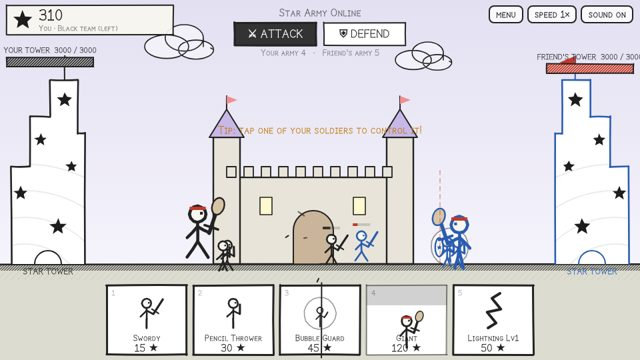
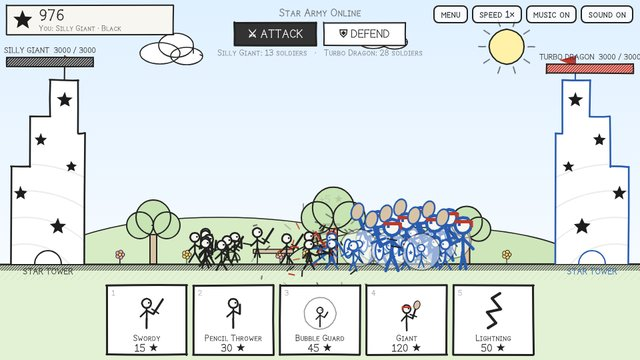
Star Army: trophies for beating the game; online win trophies; fresh lobby covers
- Animated pencil-drawn trophy on the big wins (all 30 stages, zombie level 15,
  survive till sunrise, beat the computer, 2-player VS) and a trophy shelf on
  the title screen (saved in starArmySave).
- Star Army Online: trophy when you win, wins counted on this device
  (starArmyOnlineWins) and shown on the title screen.
- Online title screen now shows an online battlefield instead of story stage 1;
  removed duplicate <title> tags.
- New thumb.jpg screenshots for both games.

Claude-Session: https://claude.ai/code/session_012zsgkV4DVUGYw2WCcTi7S9

diff --git a/star-army-online/index.html b/star-army-online/index.html
@@ -12,13 +12,6 @@
 <meta name="apple-mobile-web-app-status-bar-style" content="black-translucent">
 <meta name="apple-mobile-web-app-title" content="Star Army Online">
 <title>Star Army Online</title>
-<title>Star Army Online</title>
-<title>Star Army Online</title>
-<title>Star Army Online</title>
-<title>Star Army Online</title>
-<title>Star Army Online</title>
-<title>Star Army Online</title>
-<title>Star Army Online</title>
 <style>
[1 lines of base64/hex data omitted]
 :root{--ink:#222;--paper:#f8f6f0}
@@ -62,6 +55,10 @@ input{-webkit-user-select:text;user-select:text}
 .nameshow{font-size:26px;font-weight:bold;margin:2px 0}
 #codeIn{font:inherit;font-size:30px;font-weight:bold;letter-spacing:10px;text-transform:uppercase;width:170px;text-align:center;border:3px solid #222;border-radius:9px;padding:4px;margin:0 0 8px;background:#fff;color:#222;touch-action:manipulation}
 .bigcode{font-size:64px;font-weight:bold;letter-spacing:14px;margin:6px 0;border:3px dashed #222;border-radius:12px;padding:6px 10px;display:inline-block;background:#fff}
+.trophy,.shelfT{background:transparent!important;box-shadow:none!important}
+.trophy{width:min(220px,50vw,40vh);height:auto;display:block;margin:0 auto -6px}
+.shelf{display:flex;justify-content:center;gap:6px;flex-wrap:wrap;margin:4px 0}.shelf .slot{text-align:center;font-size:11px;font-weight:bold;width:92px}
+.shelfT{width:88px;height:auto;display:block;margin:0 auto}.shelfT.off{opacity:.25;filter:grayscale(1)}
 #rot{display:none}
 @media (orientation:portrait) and (pointer:coarse){#rot{display:block}}
 </style>
@@ -73,6 +70,7 @@ input{-webkit-user-select:text;user-select:text}
 <div id="title" class="ov on"><div class="card">
   <h1>STAR ARMY ONLINE</h1>
   <p class="onlinenow" id="onlineTitle"></p>
+  <div class="shelf" id="shelf"></div>
   <p>Two players, two devices! Each of you commands a <b>Star Army</b>. Knock down your friend's <b>Star Tower</b> before they knock down yours.</p>
   <img class="art" src="art.jpg" alt="The original hand-drawn picture this game is based on" onerror="this.remove()">
   <ul>
@@ -450,6 +448,47 @@ function update(){G.time++;
   updateProj();
   G.units=G.units.filter(u=>!u.dead);}
 
+/* ---------- trophies ---------- */
+const TROPHY_COLORS={gold:['#f4c430','#c99a06'],silver:['#d9dde3','#9aa3ad'],sun:['#ffb347','#e07b00'],blue:['#7fb3ff','#2f6fd6'],bronze:['#e0a46a','#a8662c']};
+let trophyAnim=0;
+function drawTrophy(c,color,label,f){const x=c.getContext('2d'),w=c.width,h=c.height,[fill,dark]=TROPHY_COLORS[color]||TROPHY_COLORS.gold;
+  const prev=ctx,pb=boil,psb=SB,psc=SC;ctx=x;boil=Math.floor(f/8);seed(777);x.setTransform(1,0,0,1,0,0);x.clearRect(0,0,w,h);
+  const s=w/220;x.scale(s,s);const bob=Math.sin(f/14)*4,cx=110;
+  /* shine rays */
+  x.save();x.translate(cx,92+bob);x.rotate(f/120);x.strokeStyle=fill;x.globalAlpha=.55;x.lineWidth=3;
+  for(let i=0;i<12;i++){const a=i*Math.PI/6;x.beginPath();x.moveTo(Math.cos(a)*62,Math.sin(a)*62);x.lineTo(Math.cos(a)*84,Math.sin(a)*84);x.stroke();}x.restore();
+  x.save();x.translate(0,bob);x.lineWidth=3;x.strokeStyle=INK;x.lineJoin='round';
+  /* handles */
+  x.lineWidth=7;x.strokeStyle=INK;epath(cx-50,62,16,20,1.2);x.stroke();epath(cx+50,62,16,20,1.2);x.stroke();
+  x.lineWidth=3.5;x.strokeStyle=fill;epath(cx-50,62,16,20,0.5);x.stroke();epath(cx+50,62,16,20,0.5);x.stroke();
+  /* cup */
+  x.lineWidth=3;x.strokeStyle=INK;x.fillStyle=fill;x.beginPath();x.moveTo(cx-48,34);x.lineTo(cx+48,34);x.quadraticCurveTo(cx+46,104,cx+8,116);x.lineTo(cx-8,116);x.quadraticCurveTo(cx-46,104,cx-48,34);x.closePath();x.fill();
+  hatch(cx+14,40,30,70,7,dark,1.5);
+  x.beginPath();x.moveTo(cx-48,34);x.lineTo(cx+48,34);x.quadraticCurveTo(cx+46,104,cx+8,116);x.lineTo(cx-8,116);x.quadraticCurveTo(cx-46,104,cx-48,34);x.stroke();
+  epath(cx,34,48,8,1);x.fillStyle=dark;x.fill();x.stroke();
+  /* star on the cup */
+  x.fillStyle='#fff';starPath(cx,72,17);x.fill();x.stroke();
+  /* stem + base */
+  x.fillStyle=fill;x.beginPath();x.rect(cx-8,116,16,18);x.fill();srect(cx-8,116,16,18,1);
+  x.fillStyle=dark;x.beginPath();x.rect(cx-30,134,60,12);x.fill();srect(cx-30,134,60,12,1);
+  x.fillStyle='#fff';x.beginPath();x.rect(cx-42,146,84,24);x.fill();srect(cx-42,146,84,24,1.2);
+  x.restore();
+  /* sparkles */
+  for(let i=0;i<6;i++){const a=i*1.05+f/40,r=78+Math.sin(f/9+i)*10,sx=cx+Math.cos(a)*r,sy=90+Math.sin(a)*r*.75,k=(Math.sin(f/6+i*2)+1)/2;
+    x.fillStyle=i%2?fill:'#fff';x.strokeStyle=INK;x.lineWidth=1.5;starPath(sx,sy,4+k*5);x.fill();x.stroke();}
+  if(label){x.font='bold '+(label.length>14?12:15)+'px '+FONT;x.fillStyle=INK;x.textAlign='center';x.textBaseline='middle';x.fillText(label,cx,158+bob);}
+  ctx=prev;boil=pb;SB=psb;SC=psc;}
+function trophyHTML(){return '<canvas class="trophy" width="440" height="360"></canvas>';}
+function startTrophyAnim(color,label){cancelAnimationFrame(trophyAnim);const c=document.querySelector('#msgOv canvas.trophy');if(!c)return;let f=0;
+  const loop=()=>{if(!c.isConnected||!$('msgOv').classList.contains('on'))return;drawTrophy(c,color,label,f++);trophyAnim=requestAnimationFrame(loop);};loop();}
+function trophyMsg(title,trophy,html,buttons){showMsg(title,trophyHTML()+'<br>'+html,buttons);startTrophyAnim(trophy.color,trophy.label);}
+function shelfCanvas(color,label,got){const c=document.createElement('canvas');c.width=176;c.height=144;c.className='shelfT'+(got?'':' off');
+  c.title=got?label+' trophy':'Not won yet: '+label;drawTrophy(c,got?color:'silver',got?'':'?',0);return c;}
+let onlineWins=0;try{onlineWins=Math.max(0,parseInt(localStorage.getItem('starArmyOnlineWins')||'0',10)||0);}catch(e){}
+function renderShelf(){const el=$('shelf');if(!el)return;el.innerHTML='';if(!onlineWins)return;const n=Math.min(onlineWins,5);
+  for(let i=0;i<n;i++){const d=document.createElement('div');d.className='slot';d.appendChild(shelfCanvas(['gold','blue','silver','sun','bronze'][i],'',true));el.appendChild(d);}
+  const t=document.createElement('div');t.className='slot';t.style.alignSelf='center';t.style.fontSize='14px';t.textContent=onlineWins+(onlineWins===1?' online win':' online wins')+'!';el.appendChild(t);}
+renderShelf();
 /* ---------- flow ---------- */
 let prevState=null,upReturn=null;
 function hideAll(){['title','msgOv','selOv','upOv','modeOv','zSelOv','netOv','waitOv'].forEach(id=>$(id).classList.remove('on'));}
@@ -1047,7 +1086,9 @@ function guestTick(){G.time++;
   for(const u of G.units){if(u.tx!==undefined)u.x+=(u.tx-u.x)*0.35;if(u.flash>0)u.flash--;}
   if(G.ending)G.ending.t++;}
 function finishNet(p1won){if(state==='over')return;state='over';if(isHost())netSend({t:'end',w:p1won?1:0});const iWon=(NET.role==='p1')===!!p1won;jingle(iWon);
-  const fn=friendName();showMsg(iWon?'YOU WIN, '+myName()+'! 🏆':fn+' wins!',iWon?'Your Star Army knocked down '+(fn==='Your friend'?'your friend':fn)+'\'s tower!':(fn==='Your friend'?'Your friend':fn)+'\'s army knocked down your tower. Want a rematch?',[['Play again',netAgain],['Leave',netLeave]]);}
+  const fn=friendName();if(iWon){onlineWins++;try{localStorage.setItem('starArmyOnlineWins',String(onlineWins));}catch(e){}renderShelf();
+    trophyMsg('YOU WIN, '+myName()+'! 🏆',{color:NET.role==='p1'?'gold':'blue',label:'WINNER!'},'Your Star Army knocked down '+(fn==='Your friend'?'your friend':fn)+'\'s tower! That is trophy number <b>'+onlineWins+'</b>.',[['Play again',netAgain],['Leave',netLeave]]);return;}
+  showMsg(fn+' wins!',(fn==='Your friend'?'Your friend':fn)+'\'s army knocked down your tower. Want a rematch?',[['Play again',netAgain],['Leave',netLeave]]);}
 function netAgain(){NET.meAgain=true;netSend({t:'again'});if(NET.role==='p1'&&NET.otherAgain){hostStart();return;}
   showMsg('Rematch!','Waiting for '+friendName()+' to tap Play again…',[['Leave',netLeave]]);}
 function netLeave(){netClose();state='title';hideAll();$('title').classList.add('on');}
@@ -1140,7 +1181,7 @@ let last=performance.now(),acc=0;
 function frame(now){acc+=Math.min(100,now-last);last=now;boil=Math.floor(now/140)%4;
   while(acc>=1000/60){t++;if(state==='play'){if(isGuest())guestTick();else{for(let i=0;i<speed;i++)update();if(isHost()&&t%3===0)netSend(snap());}}acc-=1000/60;}
   draw();musicTick();requestAnimationFrame(frame);}
-startStage(0);requestAnimationFrame(frame);
+startBattle({n:0,name:'Star Army Online',short:'Online',baseHp:3000,int:1e9,mix:{bug:1},beetle:[1e9,1e9],start:100,mul:1,pmul:1,bmul:1,boss:null,towerHp:3000},(NET.role='p1','vs'),'net');NET.role=null;G.theme=0;G.banner=0;requestAnimationFrame(frame);
 try{document.fonts.load('bold 20px Stickman').then(()=>{bgKey='';});}catch(e){}
 </script>
 <script>

diff --git a/star-army/index.html b/star-army/index.html
@@ -47,6 +47,10 @@ ul{text-align:left;margin:6px auto;padding-left:22px;max-width:480px;font-size:1
 .sbtn b{display:block;font-size:20px}.sbtn span{font-size:10px;display:block;line-height:1.1}
 .sbtn.boss{border:3px solid #c0392b;color:#c0392b}.sbtn:disabled{opacity:.3;cursor:default}.sbtn.done{background:#eee}
 .onlinenow{font-weight:bold;color:#1e7a3a;min-height:20px;margin:2px 0 6px}
+.trophy,.shelfT{background:transparent!important;box-shadow:none!important}
+.trophy{width:min(220px,50vw,40vh);height:auto;display:block;margin:0 auto -6px}
+.shelf{display:flex;justify-content:center;gap:6px;flex-wrap:wrap;margin:4px 0}.shelf .slot{text-align:center;font-size:11px;font-weight:bold;width:92px}
+.shelfT{width:88px;height:auto;display:block;margin:0 auto}.shelfT.off{opacity:.25;filter:grayscale(1)}
 #rot{display:none}
 @media (orientation:portrait) and (pointer:coarse){#rot{display:block}}
 </style>
@@ -58,6 +62,7 @@ ul{text-align:left;margin:6px auto;padding-left:22px;max-width:480px;font-size:1
 <div id="title" class="ov on"><div class="card">
   <h1>STAR ARMY vs. THE BUGS</h1>
   <p class="onlinenow" id="onlineTitle"></p>
+  <div class="shelf" id="shelf"></div>
   <p>Bugs have taken over the computer! Build an army, protect your <b>Star Tower</b>, and seal up <b>The Crack</b> in the wall where they come from.</p>
   <img class="art" src="art.jpg" alt="The original hand-drawn picture this game is based on" onerror="this.remove()">
   <ul>
@@ -419,6 +424,47 @@ function update(){G.time++;
   updateProj();
   G.units=G.units.filter(u=>!u.dead);}
 
+/* ---------- trophies ---------- */
+const TROPHY_COLORS={gold:['#f4c430','#c99a06'],silver:['#d9dde3','#9aa3ad'],sun:['#ffb347','#e07b00'],blue:['#7fb3ff','#2f6fd6'],bronze:['#e0a46a','#a8662c']};
+let trophyAnim=0;
+function drawTrophy(c,color,label,f){const x=c.getContext('2d'),w=c.width,h=c.height,[fill,dark]=TROPHY_COLORS[color]||TROPHY_COLORS.gold;
+  const prev=ctx,pb=boil,psb=SB,psc=SC;ctx=x;boil=Math.floor(f/8);seed(777);x.setTransform(1,0,0,1,0,0);x.clearRect(0,0,w,h);
+  const s=w/220;x.scale(s,s);const bob=Math.sin(f/14)*4,cx=110;
+  /* shine rays */
+  x.save();x.translate(cx,92+bob);x.rotate(f/120);x.strokeStyle=fill;x.globalAlpha=.55;x.lineWidth=3;
+  for(let i=0;i<12;i++){const a=i*Math.PI/6;x.beginPath();x.moveTo(Math.cos(a)*62,Math.sin(a)*62);x.lineTo(Math.cos(a)*84,Math.sin(a)*84);x.stroke();}x.restore();
+  x.save();x.translate(0,bob);x.lineWidth=3;x.strokeStyle=INK;x.lineJoin='round';
+  /* handles */
+  x.lineWidth=7;x.strokeStyle=INK;epath(cx-50,62,16,20,1.2);x.stroke();epath(cx+50,62,16,20,1.2);x.stroke();
+  x.lineWidth=3.5;x.strokeStyle=fill;epath(cx-50,62,16,20,0.5);x.stroke();epath(cx+50,62,16,20,0.5);x.stroke();
+  /* cup */
+  x.lineWidth=3;x.strokeStyle=INK;x.fillStyle=fill;x.beginPath();x.moveTo(cx-48,34);x.lineTo(cx+48,34);x.quadraticCurveTo(cx+46,104,cx+8,116);x.lineTo(cx-8,116);x.quadraticCurveTo(cx-46,104,cx-48,34);x.closePath();x.fill();
+  hatch(cx+14,40,30,70,7,dark,1.5);
+  x.beginPath();x.moveTo(cx-48,34);x.lineTo(cx+48,34);x.quadraticCurveTo(cx+46,104,cx+8,116);x.lineTo(cx-8,116);x.quadraticCurveTo(cx-46,104,cx-48,34);x.stroke();
+  epath(cx,34,48,8,1);x.fillStyle=dark;x.fill();x.stroke();
+  /* star on the cup */
+  x.fillStyle='#fff';starPath(cx,72,17);x.fill();x.stroke();
+  /* stem + base */
+  x.fillStyle=fill;x.beginPath();x.rect(cx-8,116,16,18);x.fill();srect(cx-8,116,16,18,1);
+  x.fillStyle=dark;x.beginPath();x.rect(cx-30,134,60,12);x.fill();srect(cx-30,134,60,12,1);
+  x.fillStyle='#fff';x.beginPath();x.rect(cx-42,146,84,24);x.fill();srect(cx-42,146,84,24,1.2);
+  x.restore();
+  /* sparkles */
+  for(let i=0;i<6;i++){const a=i*1.05+f/40,r=78+Math.sin(f/9+i)*10,sx=cx+Math.cos(a)*r,sy=90+Math.sin(a)*r*.75,k=(Math.sin(f/6+i*2)+1)/2;
+    x.fillStyle=i%2?fill:'#fff';x.strokeStyle=INK;x.lineWidth=1.5;starPath(sx,sy,4+k*5);x.fill();x.stroke();}
+  if(label){x.font='bold '+(label.length>14?12:15)+'px '+FONT;x.fillStyle=INK;x.textAlign='center';x.textBaseline='middle';x.fillText(label,cx,158+bob);}
+  ctx=prev;boil=pb;SB=psb;SC=psc;}
+function trophyHTML(){return '<canvas class="trophy" width="440" height="360"></canvas>';}
+function startTrophyAnim(color,label){cancelAnimationFrame(trophyAnim);const c=document.querySelector('#msgOv canvas.trophy');if(!c)return;let f=0;
+  const loop=()=>{if(!c.isConnected||!$('msgOv').classList.contains('on'))return;drawTrophy(c,color,label,f++);trophyAnim=requestAnimationFrame(loop);};loop();}
+function trophyMsg(title,trophy,html,buttons){showMsg(title,trophyHTML()+'<br>'+html,buttons);startTrophyAnim(trophy.color,trophy.label);}
+function shelfCanvas(color,label,got){const c=document.createElement('canvas');c.width=176;c.height=144;c.className='shelfT'+(got?'':' off');
+  c.title=got?label+' trophy':'Not won yet: '+label;drawTrophy(c,got?color:'silver',got?'':'?',0);return c;}
+const TROPHIES=[['story','gold','BUG BUSTER','Beat all 30 stages'],['zombie','silver','ZOMBIE KING','Beat zombie level 15'],['night','sun','SUNRISE HERO','Survive till sunrise'],['cpu','blue','CPU CHAMP','Beat the computer in VS']];
+function renderShelf(){const el=$('shelf');if(!el)return;el.innerHTML='';const got=save.trophies||{};
+  TROPHIES.forEach(([k,c,l,how])=>{const d=document.createElement('div');d.className='slot';d.appendChild(shelfCanvas(c,l,got[k]));d.appendChild(document.createTextNode(got[k]?l:how));el.appendChild(d);});}
+function award(k){save.trophies=save.trophies||{};const isNew=!save.trophies[k];save.trophies[k]=1;persist();renderShelf();return isNew?'<div class="newbox">NEW TROPHY! It is on your trophy shelf.</div>':'';}
+renderShelf();
 /* ---------- flow ---------- */
 let prevState=null,upReturn=null;
 function hideAll(){['title','msgOv','selOv','upOv','modeOv','zSelOv'].forEach(id=>$(id).classList.remove('on'));}
@@ -458,7 +504,7 @@ function finish(won){if(G.mode!=='story'){finishMode(won);return;}state='over';c
   const again=()=>{finish.paid=false;};
   if(stageIdx<STAGES.length-1){const nx=STAGES[stageIdx+1];if(nx.boss)html+='<br>Watch out — the next stage is a <b>BOSS FIGHT!</b>';
     showMsg('Stage '+st.n+' cleared! 🎉',html,[['Next: Stage '+nx.n+' ▶',()=>{again();go(stageIdx+1);}],['◆ Upgrades',()=>showUpgrades(()=>finish(true))],['Stages',()=>{again();showSelect(true);}]]);}
-  else showMsg('YOU WIN! 🏆','Your Star Army beat the '+ENEMIES[st.boss].name+' and sealed every crack in the computer! You are a true bug buster!<br>You earned <b>'+finish.gems+' ◆ gems</b>.',
+  else trophyMsg('YOU WIN! 🏆',{color:'gold',label:'BUG BUSTER'},award('story')+'Your Star Army beat the '+ENEMIES[st.boss].name+' and sealed every crack in the computer! You are a true bug buster!<br>You earned <b>'+finish.gems+' ◆ gems</b>.',
     [['◆ Upgrades',()=>showUpgrades(()=>finish(true))],['Stages',()=>{again();showSelect(true);}]]);}
 function playStory(){if(save.unlocked<=1){hideAll();go(0);}else showSelect(false);}
 let modeFromGame=false;
@@ -473,16 +519,17 @@ $('modeUp').onclick=()=>showUpgrades(()=>{$('modeOv').classList.add('on');});
 $('modeBack').onclick=()=>{hideAll();if(modeFromGame&&state==='paused')state='play';else if(state==='over'){$('msgOv').classList.add('on');}else{state='title';$('title').classList.add('on');}};
 function finishMode(won){state='over';const m=G.mode,key=G.modeKey,again=()=>{finishMode.paid=false;startMode(key);},modes=()=>{finishMode.paid=false;showModes(false);};
   const pay=g=>{if(!finishMode.paid){save.gems+=g;persist();finishMode.paid=true;}return '<br>You earned <b>'+g+' ◆ gems</b>'+(G.mode==='zombie'&&g===1?' (replay bonus)':'')+'.';};
-  if(m==='vs'){if(G.vsCpu)showMsg(won?'YOU WIN! 🏆':'The Computer wins!',won?'Your Star Army smashed the Bug Army!'+pay(3):'The bugs knocked down your Star Tower. Try again!',[['Rematch',again],['Modes',modes]]);
-    else showMsg(won?'PLAYER 1 WINS! ⭐':'PLAYER 2 WINS! 🐛',won?'The Star Army sealed the Crack!':'The Bug Army knocked down the Star Tower!',[['Rematch',again],['Modes',modes]]);return;}
+  if(m==='vs'){if(G.vsCpu&&won){trophyMsg('YOU WIN! 🏆',{color:'blue',label:'CPU CHAMP'},award('cpu')+'Your Star Army smashed the Bug Army!'+pay(3),[['Rematch',again],['Modes',modes]]);return;}
+    if(G.vsCpu)showMsg('The Computer wins!','The bugs knocked down your Star Tower. Try again!',[['Rematch',again],['Modes',modes]]);
+    else trophyMsg(won?'PLAYER 1 WINS! ⭐':'PLAYER 2 WINS! 🐛',{color:won?'gold':'bronze',label:won?'PLAYER 1':'PLAYER 2'},won?'The Star Army sealed the Crack!':'The Bug Army knocked down the Star Tower!',[['Rematch',again],['Modes',modes]]);return;}
   if(!won){showMsg(m==='night'?'The zombies got in!':'Oh no!',m==='night'?'You survived '+fmtTime(G.time)+' of the night. Hire more miners, build cannons, and try again!':'The zombies knocked down your Star Tower. Try again or buy upgrades!',
     [['Try again',again],['◆ Upgrades',()=>showUpgrades(()=>finishMode(false))],['Modes',modes]]);return;}
-  if(m==='night'){showMsg('THE SUN IS UP! ☀','You survived the whole night! The zombies ran away from the sunlight.'+pay(5),[['Play again',again],['◆ Upgrades',()=>showUpgrades(()=>finishMode(true))],['Modes',modes]]);return;}
+  if(m==='night'){trophyMsg('THE SUN IS UP! ☀',{color:'sun',label:'SUNRISE HERO'},award('night')+'You survived the whole night! The zombies ran away from the sunlight.'+pay(5),[['Play again',again],['◆ Upgrades',()=>showUpgrades(()=>finishMode(true))],['Modes',modes]]);return;}
   const z=ZMODES[key],n=z.n;save.zCleared=save.zCleared||{};const first=!save.zCleared[n];
   if(!finishMode.paid){finishMode.g=first?z.gems:1;save.zCleared[n]=1;save.zUnlocked=Math.max(save.zUnlocked||1,Math.min(ZCOUNT,n+1));}
   const html=(z.bossLv?'You beat the '+ENEMIES[z.boss].name+' and smashed the graveyard!':'You smashed the zombie graveyard!')+pay(finishMode.g);
   const btns=n<ZCOUNT?[['Next: Level '+(n+1)+' ▶',()=>{finishMode.paid=false;startMode('z'+(n+1));}]]:[];
-  showMsg(n===ZCOUNT?'ZOMBIE KING DEFEATED! 👑':'Level '+n+' cleared! 🧟',html+(n===ZCOUNT?'<br>You beat every zombie level!':''),btns.concat([['◆ Upgrades',()=>showUpgrades(()=>finishMode(true))],['Levels',()=>{finishMode.paid=false;showZombieLevels();}]]));}
+  (n===ZCOUNT?(t,h,b)=>trophyMsg(t,{color:'silver',label:'ZOMBIE KING'},award('zombie')+h,b):showMsg)(n===ZCOUNT?'ZOMBIE KING DEFEATED! 👑':'Level '+n+' cleared! 🧟',html+(n===ZCOUNT?'<br>You beat every zombie level!':''),btns.concat([['◆ Upgrades',()=>showUpgrades(()=>finishMode(true))],['Levels',()=>{finishMode.paid=false;showZombieLevels();}]]));}
 $('playBtn').onclick=()=>{unlockAudio();showModes(false);};
 $('speed').onclick=()=>{speed=speed===1?2:1;$('speed').textContent='speed '+speed+'×';};
 

diff --git a/privacy/index.html b/privacy/index.html
@@ -27,7 +27,7 @@ a{color:inherit}
 <p>Our games do not collect, store, or share any personal information. There are no accounts, no ads, no in-app purchases, and no third-party analytics or tracking.</p>
 
 <h2>What stays on your device</h2>
-<p>Game progress (such as unlocked stages, gems, and upgrades) and settings (such as sound on/off) are saved only on your own device, using your browser's local storage. This data never leaves your device and we cannot see it. You can erase it at any time by clearing this site's data in your browser, or by uninstalling the app.</p>
+<p>Game progress (such as unlocked stages, gems, upgrades, and trophies) and settings (such as sound on/off) are saved only on your own device, using your browser's local storage. This data never leaves your device and we cannot see it. You can erase it at any time by clearing this site's data in your browser, or by uninstalling the app.</p>
 
 <h2>Offline files</h2>
 <p>To let the games work without an internet connection, your browser keeps a copy of the game files (pictures, code, sounds). These are the same files everyone downloads and contain nothing about you.</p>
